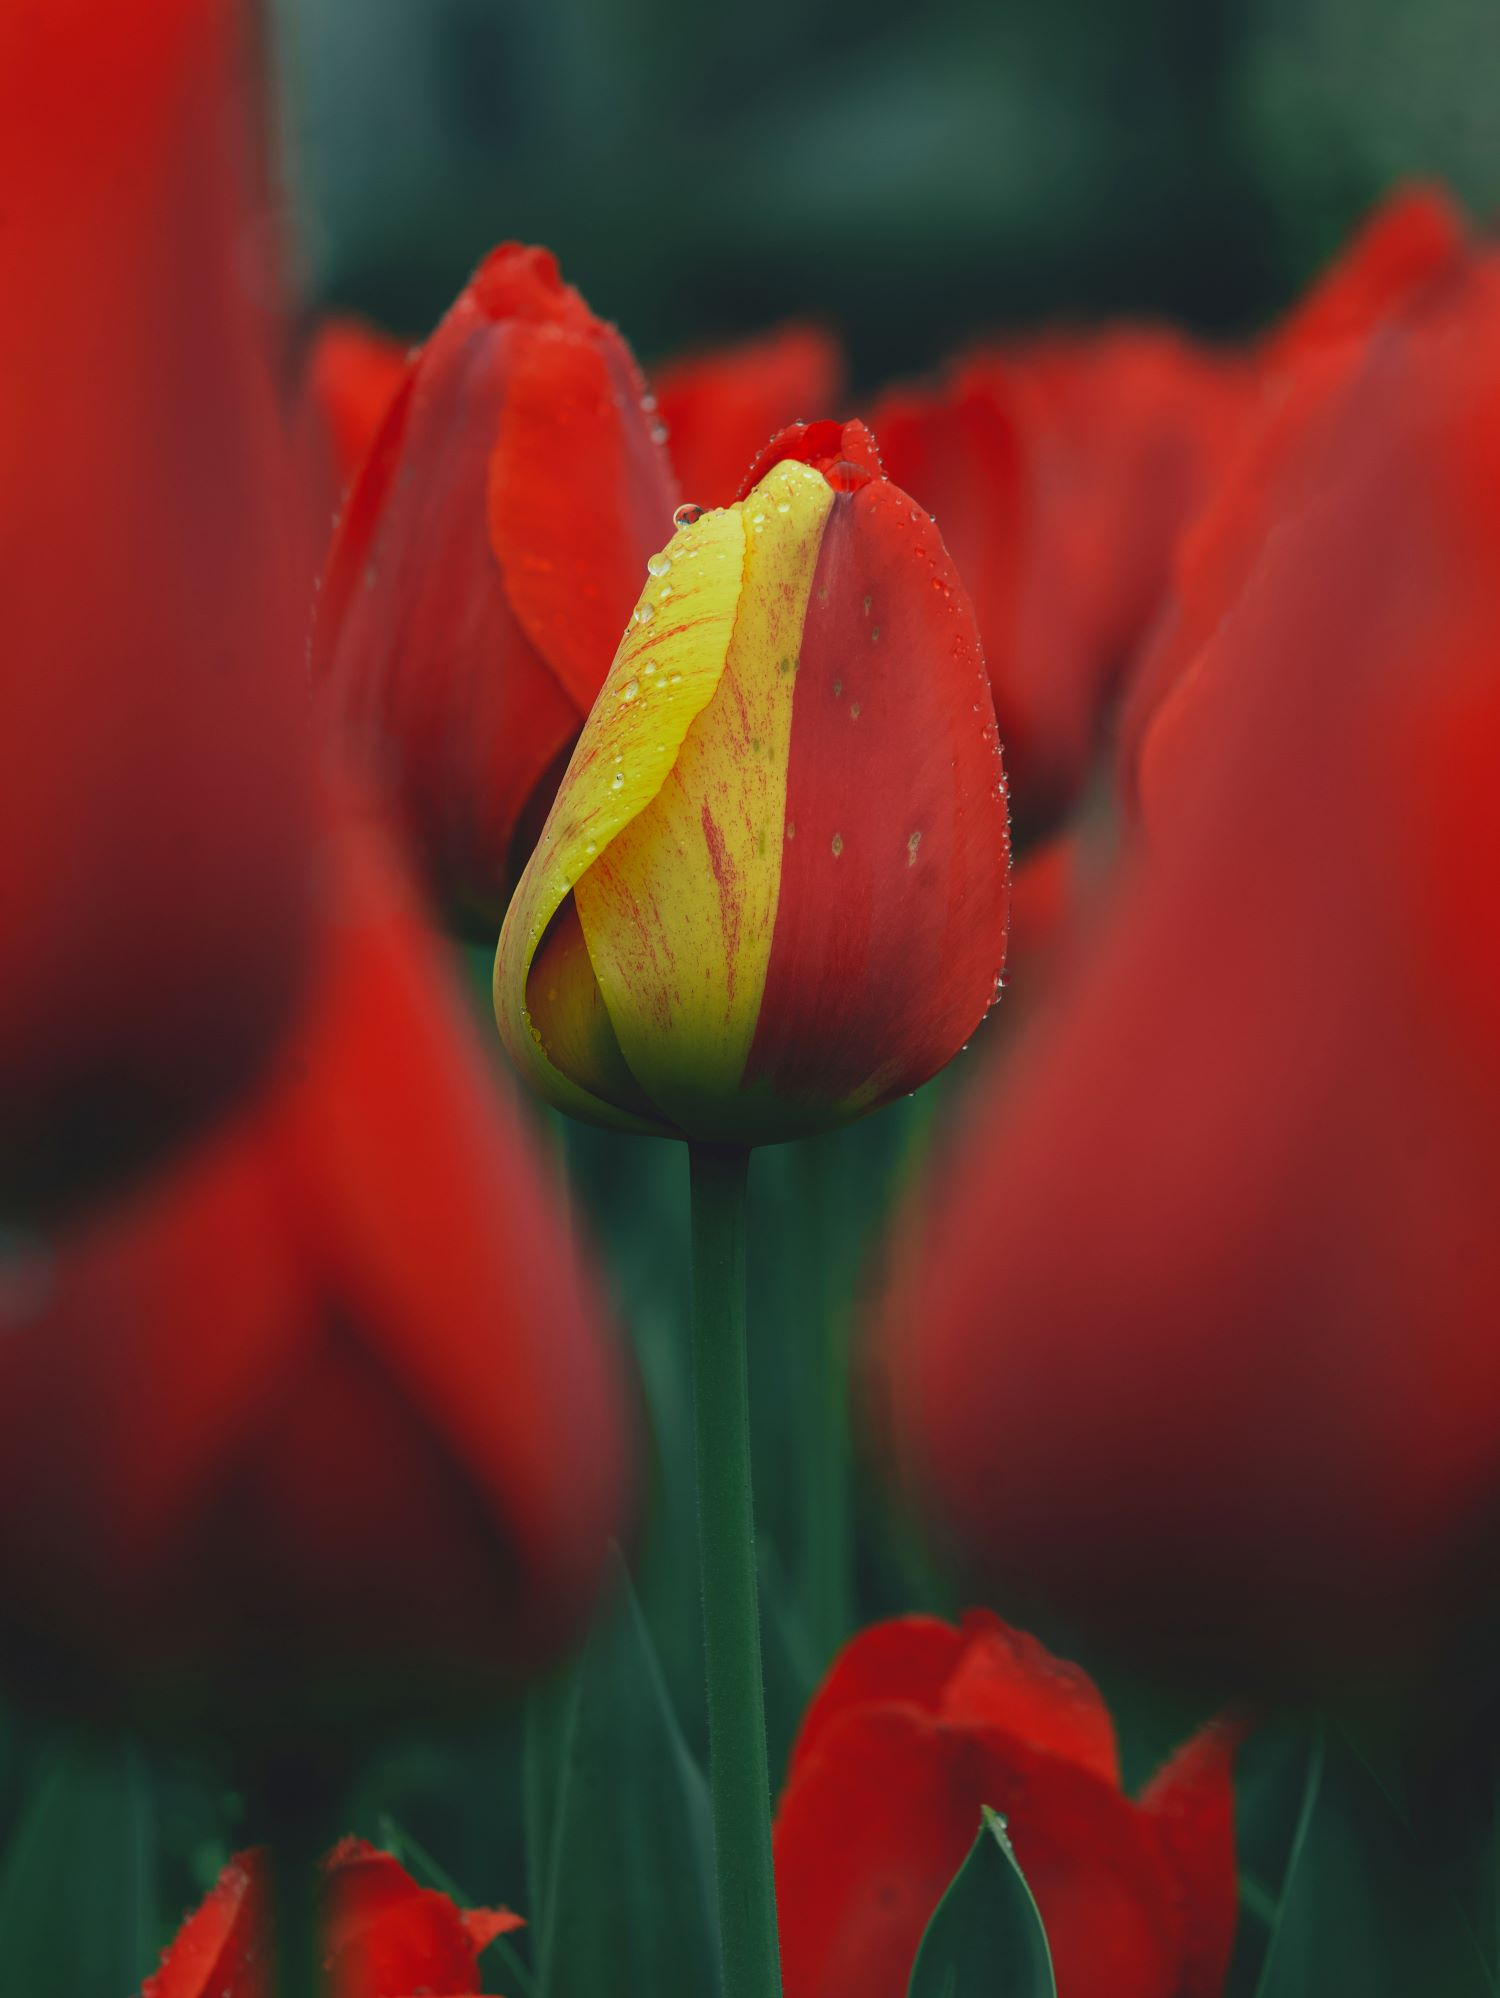
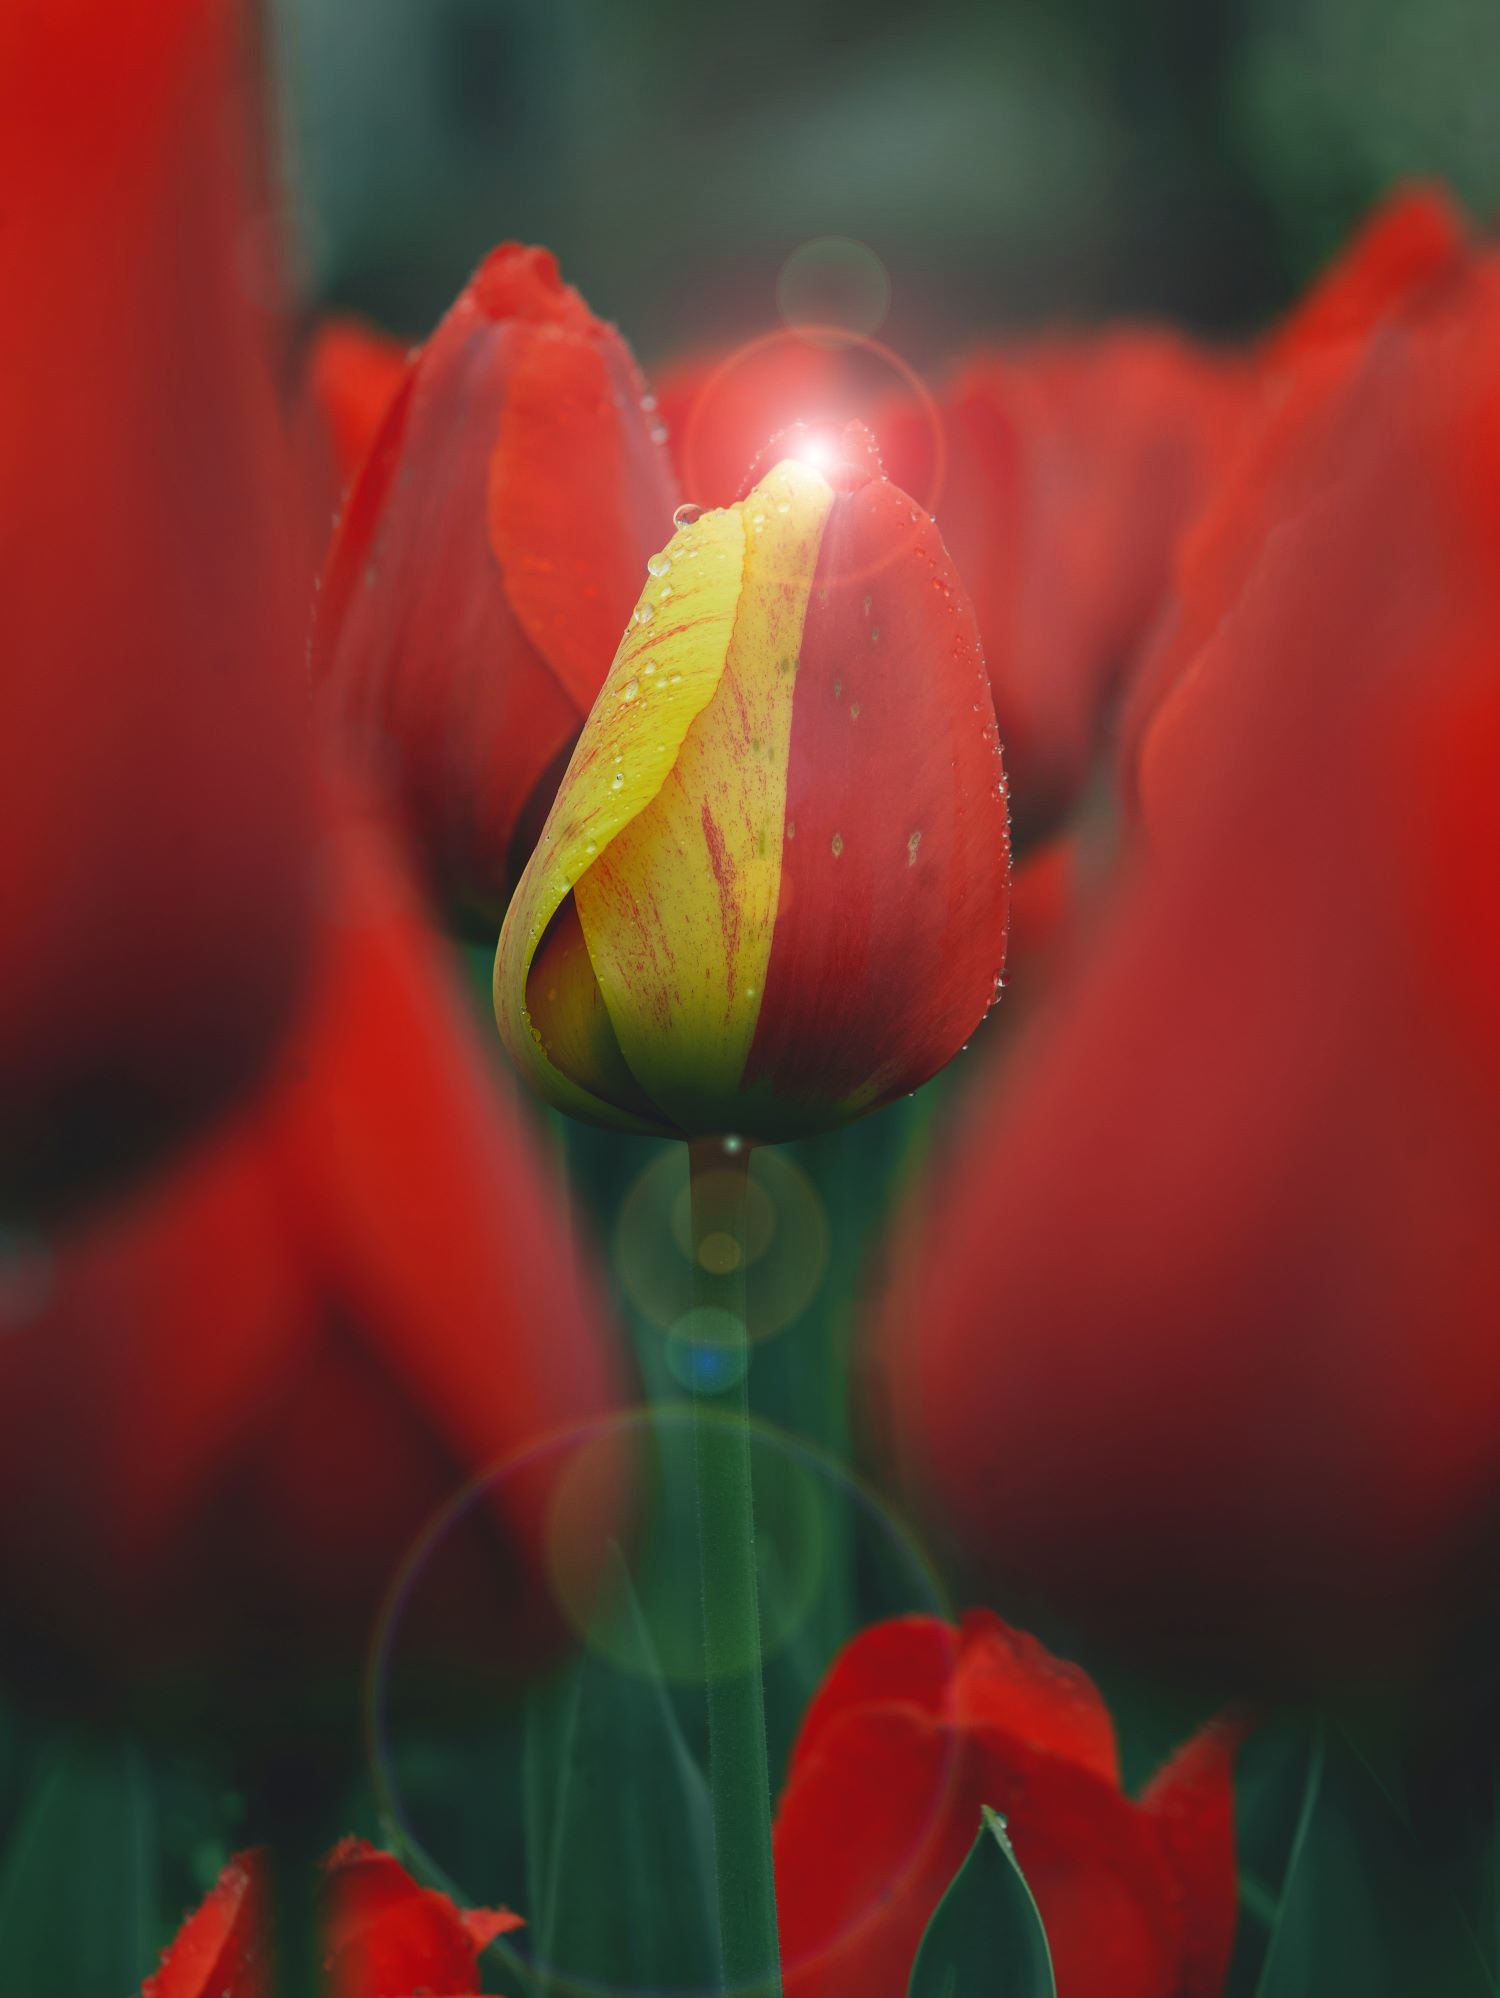
c
dfsd

Changed region(s): [[0.3373, 0.0, 0.7667, 0.4034], [0.3987, 0.5586, 0.552, 0.7137]]

diff --git a/index.html b/index.html
@@ -61,6 +61,11 @@ a[href^="http"]:not([href*="yourdomain.com"])::before {
   vertical-align: middle;
 }
 
+
+html {
+    scroll-padding-top: 80px; /* Replace 80px with the actual height of your top bar */
+    scroll-behavior: smooth;  /* Optional: Makes the scroll animation smooth */
+}
         /* --- Header --- */
 header { background-color: var(--white); box-shadow: 0 2px 8px rgba(27, 77, 88, 0.12); position: sticky; top: 0; z-index: 1000; }
 nav { display: flex; justify-content: space-between; align-items: center; height: 60px; }
@@ -88,7 +93,7 @@ nav { display: flex; justify-content: space-between; align-items: center; height
 .btn:hover { background-color: var(--rust-accent); transform: translateY(-2px); box-shadow: 0 6px 16px rgba(198, 93, 59, 0.35); }
 
         /* --- Wave Divider --- */
-.wave-divider { width: 100%; height: 80px; background-image: url('images/wave-divider.jpg'); background-size: cover; background-position: center; opacity: 0.15; mask-image: linear-gradient(to bottom, black 50%, transparent 100%); -webkit-mask-image: linear-gradient(to bottom, black 50%, transparent 100%); margin-top: -20px; }
+.wave-divider { width: 100%; height: 80px; background-image: url('images/hero-sunset2.jpg'); background-size: cover; background-position: bottom; opacity: 0.25; mask-image: linear-gradient(to bottom, black 50%, transparent 90%); -webkit-mask-image: linear-gradient(to bottom, black 50%, transparent 90%); margin-top: -20px; border-top: 25px solid var(--saffron-accent);}
 
         /* --- About --- */
 .about { background-color: var(--white); text-align: center; }
@@ -709,26 +714,30 @@ footer a:hover {
 </div>
                 <div class="training-logo-item">
                     <a href="https://biodynamiccraniosacralinternational.com/standards/"><img src="images/BCTI-logo.png" alt="BCTI Logo"></a>
-                    <p>BCTI Practitioner <br>(Standards of teaching, methods, support and ethics that are grounded in the knowledge and practices developed by key founders)</p>
-                </div>
+                    <p>BCTI Practitioner <br> 
+					 <p data-include="content/all-text.html" data-section="BCTI-standards-text"></p> 
+
+			   </div>
                 <div class="training-logo-item">
                     <a href="https://www.cnhc.org.uk/what-we-do#Craniosacral_Therapy"><img src="images/CNHC-logo.png" alt="CNHC Logo"></a>
-                    <p>College is CNHCP accredited <br>(set up by the government to protect the public)</p>
+					 <p data-include="content/all-text.html" data-section="CNHC-standards-text"></p> 
+               
                 </div>
 				
 				<div class="training-logo-item">
                     <img src="images/APNT.jpg" alt="APNT Logo">
-                    <p>College is accredited by Association of Physical and Natural Therapists (Taken over by BCMA) </p>
+                    <p>CTET College is accredited by Association of Physical and Natural Therapists (Taken over by BCMA) </p>
                 </div>
 				
 								<div class="training-logo-item">
                    <a href="https://www.the-cma.org.uk/colleges/craniosacral-therapy-educational-trust/"> <img src="images/CMA-logo.jpg" alt="CMA Logo"></a>
-                    <p>College is The Complementary Medical Association accredited <br>(Standards of quality and professionalism in complementary medicine)</p>
+				   		 <p data-include="content/all-text.html" data-section="CMA-standards-text"></p> 
+						 
                 </div>
 				
 												<div class="training-logo-item">
-                   <a href="https://www.the-cma.org.uk/colleges/craniosacral-therapy-educational-trust/"> <img src="images/CMA-logo.jpg" alt="CMA Logo"></a>
-                    <p>Fully insured </p>
+                   <a href="https://www.the-cma.org.uk/colleges/craniosacral-therapy-educational-trust/"> <img src="images/holistic-insurance.png" alt="holistic-insurance Logo"></a>
+                    <p>Fully insured <span class="Establishing">(PENDING)</span> </p>
                 </div>
 				
 			
@@ -798,7 +807,7 @@ footer a:hover {
 					
                     <p>60 minutes. First session includes detailed history. <br><em>Limited availability during training phase.</em></p>	       
 					
-					 Note for local residents: <span class="Establishing">  <span class="free-price">Free *</span>   (*Free if you live on Howle Hill but you have to provide a suitable space for the session to take place)</span>
+					 Note for local residents: <span class="Establishing">  <span class="free-price">Free *</span>   (*Free if you live on Howle Hill but you have to provide a suitable space for the session to take place. Table and all other materials will be provided by the Practitioner)</span>
 					</div>
                 </div>
 			

diff --git a/content/all-text.html b/content/all-text.html
@@ -60,7 +60,29 @@
 
 		
 </div>
-
+<div id="BCTI-standards-text">
+<expand-link id="lo324c-city" data-short-id="BCTI-standards-short" data-long-id="BCTI-standards-long"></expand-link>
+</div>
+<div id="BCTI-standards-short">Practioner Standards</div>
+<div id="BCTI-standards-long">Standards of teaching, methods, support and ethics that are grounded in the knowledge and practices developed by key founders</div>
+     CNHC<p>CTET College is CNHCP accredited <br>Set up by the government to protect the public</p>
+	 
+<div id="CNHC-standards-text">
+<expand-link id="lo324c-city" data-short-id="CNHC-standards-short" data-long-id="CNHC-standards-long"></expand-link>
+</div>
+<div id="CNHC-standards-short"> CNHC accredited college</div>
+<div id="CNHC-standards-long">CNHC accredited college: CNHC is set up by the government to protect the public by providing standards to holistic care.</div>
+			      
+<div id="CMA-standards-text">
+<expand-link id="lo324c-city" data-short-id="CMA-standards-short" data-long-id="CMA-standards-long"></expand-link>
+</div>
+<div id="CMA-standards-short"> CMA accredited college</div>
+<div id="CMA-standards-long">CTET College is The Complementary Medical Association accredited <br> Standards of quality and professionalism in complementary medicine.</div>
+			      
+ 
+				   
+				   
+			   
 <div id="session-needed-short">How many sessions might I need to have an impact?</div>
 <div id="session-needed-long"><h5>How many sessions might I need to have an impact?</h5>A lot depends on what your goals are, the symptoms you suffer from, and how well your system responds to this therapy. 
 <ul><li><b>3-10 sessions typically have a significant impact</b> on most people’s health (in some cases only one session can make a dramatic difference!). If things are going well, the momentum builds up and breakthroughs can happen. Normally a <i><b>willingness and receptiveness to change if required.</b></i></li>